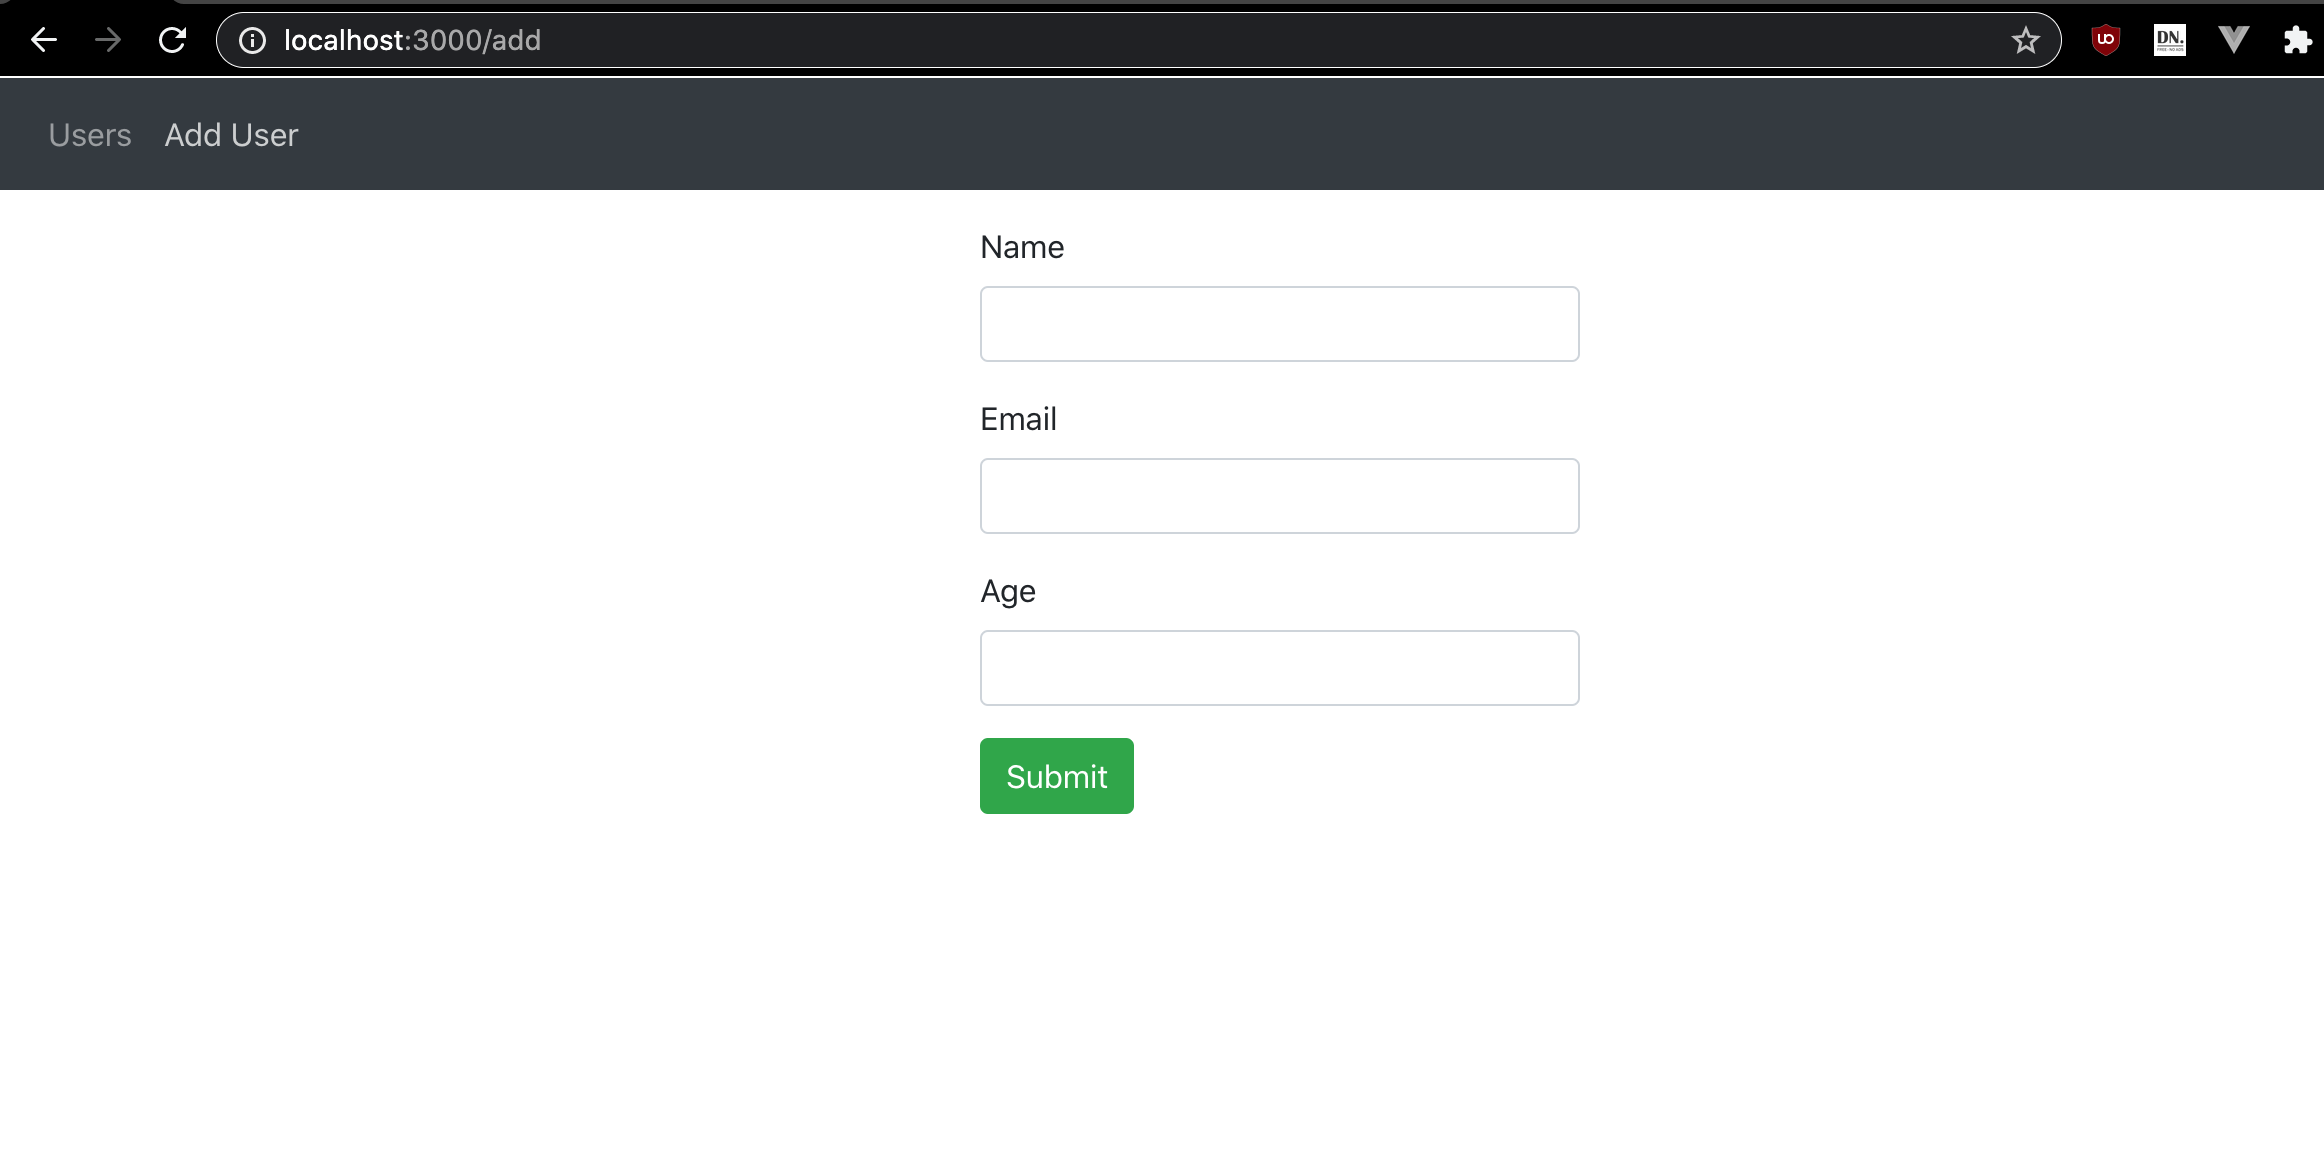
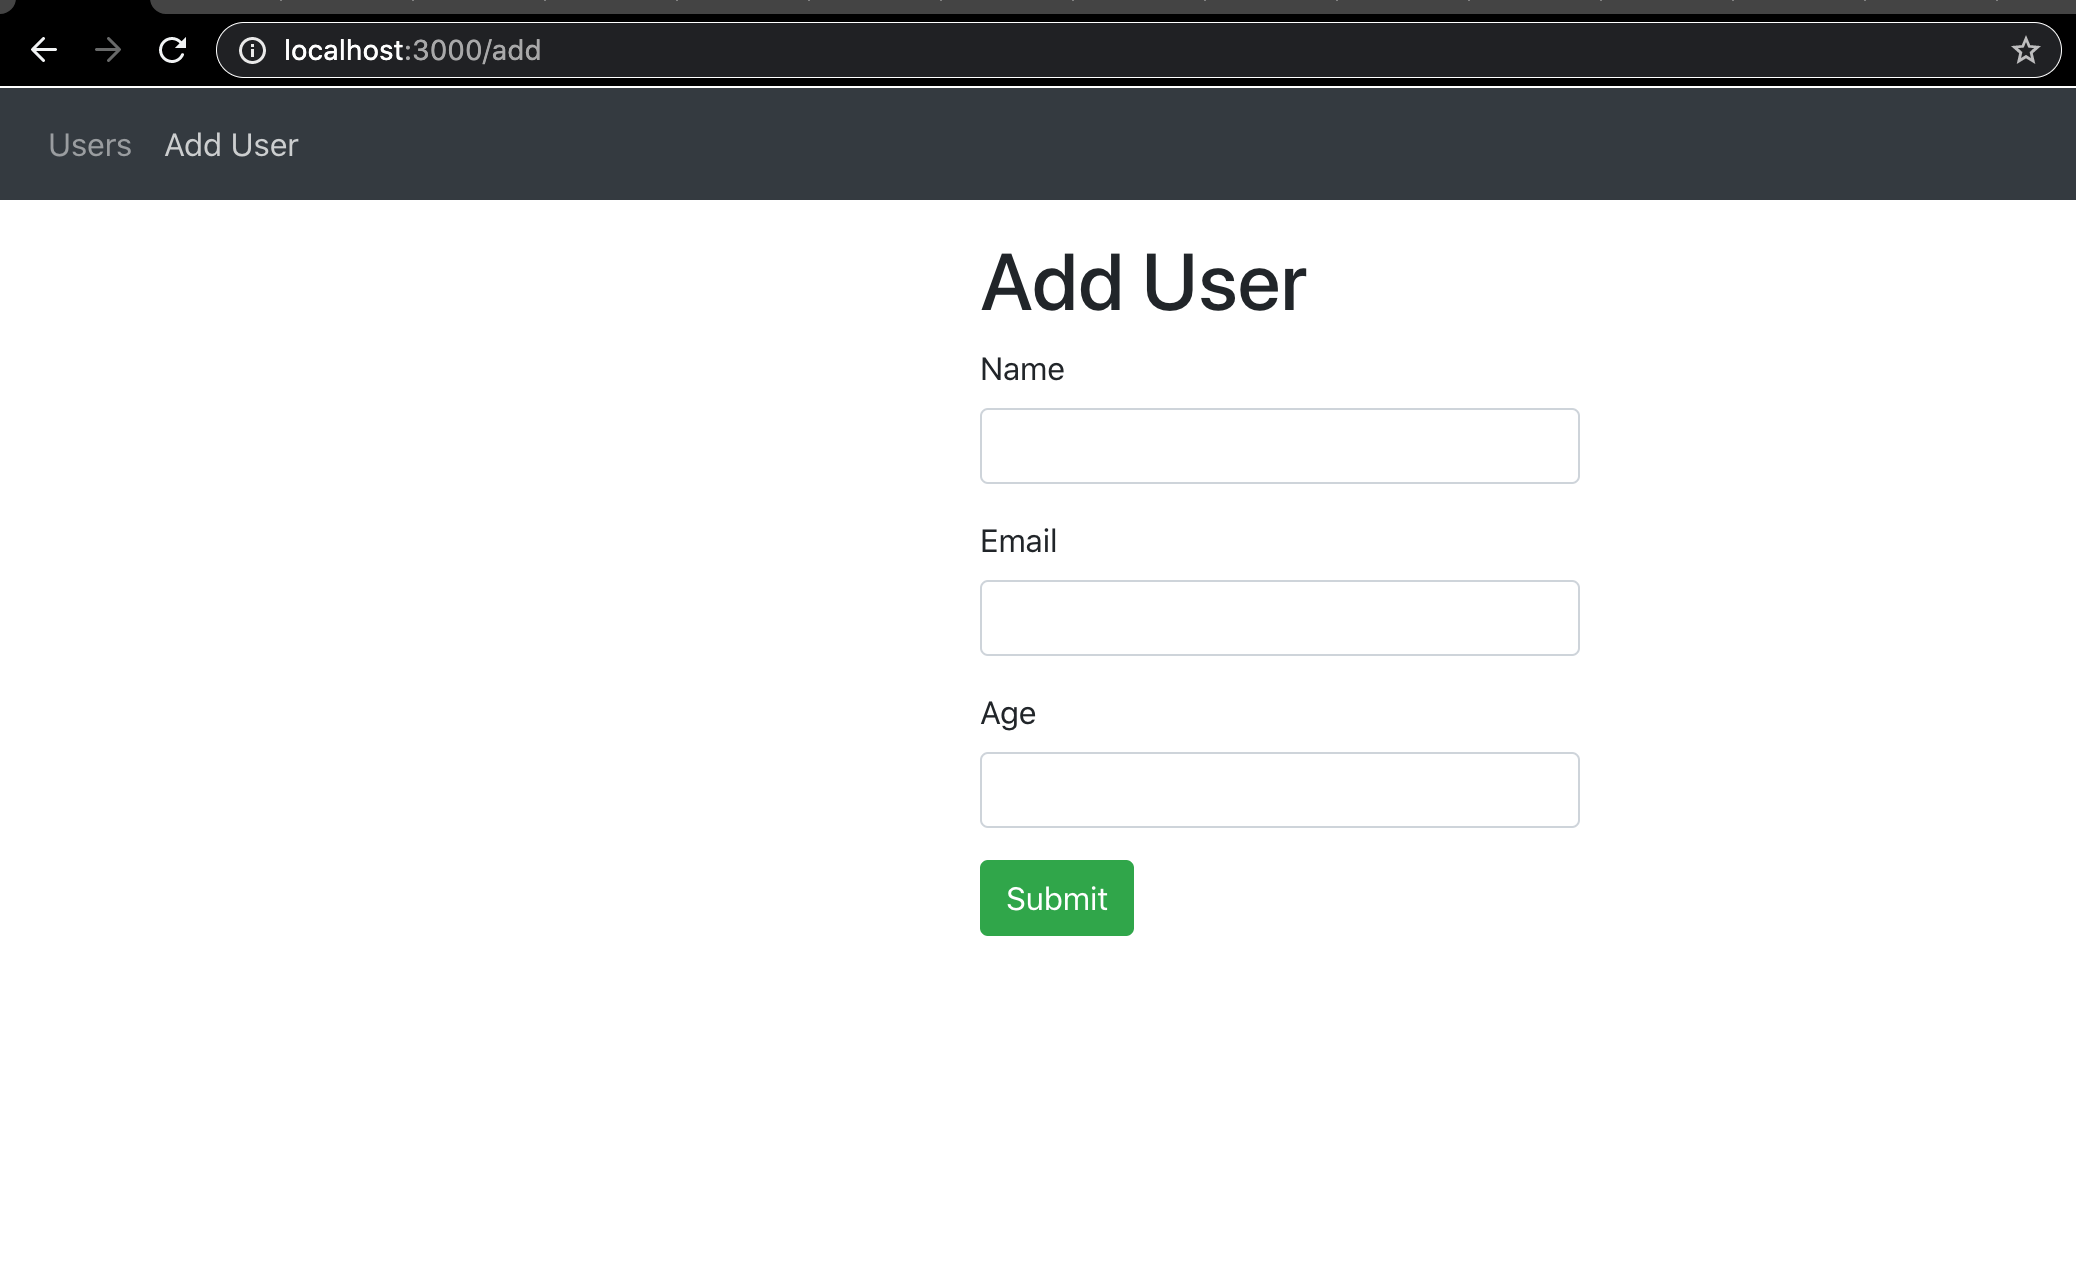
Update text on add, edit and user select screens

diff --git a/react/app/src/components/UserEdit.js b/react/app/src/components/UserEdit.js
@@ -114,7 +114,7 @@ export default class UserEdit extends Component {
 			<div>
 				{currentUser ? (
 					<div className="edit-form">
-						<h4>User</h4>
+						<h4>Edit User</h4>
 						<form>
 							<div className="form-group">
 								<label htmlFor="name">Name</label>

diff --git a/react/app/src/components/UserList.js b/react/app/src/components/UserList.js
@@ -76,7 +76,7 @@ export default class UserList extends Component {
 				<div className="col-md-6">
 					{currentUser ? (
 						<div>
-							<h4>User</h4>
+							<h4>User #{currentUser.id}</h4>
 							<div>
 								<label>
 									<strong>Name:</strong>

diff --git a/react/app/src/components/UserAdd.js b/react/app/src/components/UserAdd.js
@@ -86,6 +86,7 @@ export default class UserAdd extends Component {
 					</div>
 				) : (
 					<div>
+						<h1>Add User</h1>
 						<div className="form-group">
 							<label htmlFor="title">Name</label>
 							<input
